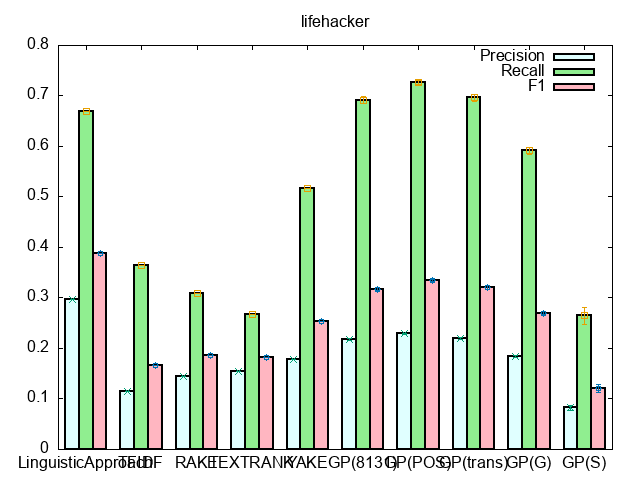
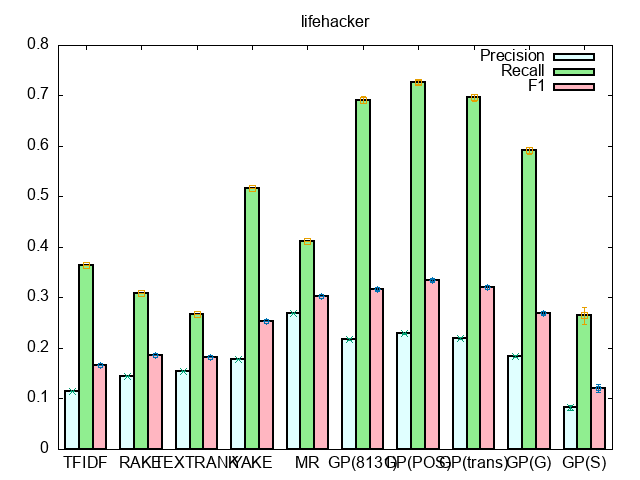
MultipatiteRank

diff --git a/extraction/06_MultipartiteRank.py b/extraction/06_MultipartiteRank.py
@@ -1,0 +1,29 @@
+import config as cfg
+from EvaluateExtraction import EvaluateExtraction
+import pke
+import string
+from nltk.corpus import stopwords
+class MultipartiteRank(EvaluateExtraction):
+    def __init__(self,opt):
+        super(MultipartiteRank,self).__init__(opt,"MultipartiteRank")
+    def extract_keyword(self):
+        self.read_files()
+        answers=[]
+        for sentence in self.test_sentences:
+            extractor = pke.unsupervised.MultipartiteRank()
+            extractor.load_document(sentence,language="en",normalization='stemming')
+            pos = {'NOUN', 'PROPN', 'ADJ'}
+            stoplist = list(string.punctuation)
+            stoplist += ['-lrb-', '-rrb-', '-lcb-', '-rcb-', '-lsb-', '-rsb-']
+            stoplist += stopwords.words('english')
+            extractor.candidate_selection(pos=pos,stoplist=stoplist)
+            extractor.candidate_weighting(alpha=1.1,
+                              threshold=0.74,
+                              method='average')
+            keyphrases=extractor.get_n_best(n=5)
+            answers.append([key for key,score in keyphrases])
+        return answers
+
+
+mk=MultipartiteRank(cfg)
+mk.run_evaluation()

diff --git a/dataset/makejsonformat.py b/dataset/makejsonformat.py
@@ -48,7 +48,7 @@ class MakeJsonformat:
             dic["title"]=""
             dic["abstract"]=self.train_sentences[i]
             dic["keywords"]=";".join(self.train_keywords[i])
-            f.write(json.dumps(dic))
+            f.write(json.dumps(dic)+"\n")
         f.close()
         ## valid
         f=open(self.output_valid_file_pass,"w",encoding="utf8")
@@ -57,7 +57,7 @@ class MakeJsonformat:
             dic["title"]=""
             dic["abstract"]=self.train_sentences[i]
             dic["keywords"]=";".join(self.train_keywords[i])
-            f.write(json.dumps(dic))
+            f.write(json.dumps(dic)+"\n")
         f.close()
         ## test
         f=open(self.output_test_file_pass,"w",encoding="utf8")
@@ -66,7 +66,7 @@ class MakeJsonformat:
             dic["title"]=""
             dic["abstract"]=self.test_sentences[i]
             dic["keywords"]=";".join(self.test_keywords[i])
-            f.write(json.dumps(dic))
+            f.write(json.dumps(dic)+"\n")
         f.close()
 
 mjf=MakeJsonformat(os.getcwd()+"/lifehacker")

diff --git a/extraction/EvaluateExtraction.py b/extraction/EvaluateExtraction.py
@@ -13,8 +13,6 @@ class EvaluateExtraction:
         precision_list=[]
         recall_list=[]
         F1_list=[]
-        print(len(self.test_keywords))
-        print(len(answers))
         for i,true_keywords in enumerate(self.test_keywords):
             #answers[i] matches with true_keywords
             hit=0

diff --git a/README.md b/README.md
@@ -18,10 +18,11 @@ KeyGAN_keyword
 │   └separatetestdata.py...python coder for separate dataset
 ├extraction
 │   ├01_LA.py...keyword extraction by linguisitic approach
-│   ├02_TFIDF...keyword extraction by TF-IDF
-│   ├03_RAKE...keyword extraction by RAKE
-│   ├04_TEXTRANK...keyword extraction by TextRank
-│   ├05_YAKE...keyword extraction by YAKE
+│   ├02_TFIDF.py...keyword extraction by TF-IDF
+│   ├03_RAKE.py...keyword extraction by RAKE
+│   ├04_TEXTRANK.py...keyword extraction by TextRank
+│   ├05_YAKE.py...keyword extraction by YAKE
+│   ├06_MultiPartiteRank.py...keyword extraction by MultiPartiteRank
 │   ├EvaluateExtraction.py...evaluation of keyword extraction
 │   └config.py...config for extraction
 ├visualization
@@ -48,12 +49,15 @@ python dataset_statistics.py
 ```
 ### keyword extraction
 ```
+python -m nltk.downloader stopwords
+python -m nltk.downloader universal_tagset #for MultipartiteRank
 python -m spacy download en_core_web_sm #for TEXTRANK
 python extraction/01_LA.py
 python extraction/02_TFIDF.py
 python extraction/03_RAKE.py
 python extraction/04_TEXTRANK.py
 python extraction/05_YAKE.py
+python extraction/06_MultipartiteRank.py
 ```
 #### plot results
 copy the bottom line from stdout to `extraction/results_(datasetname).csv`, then
